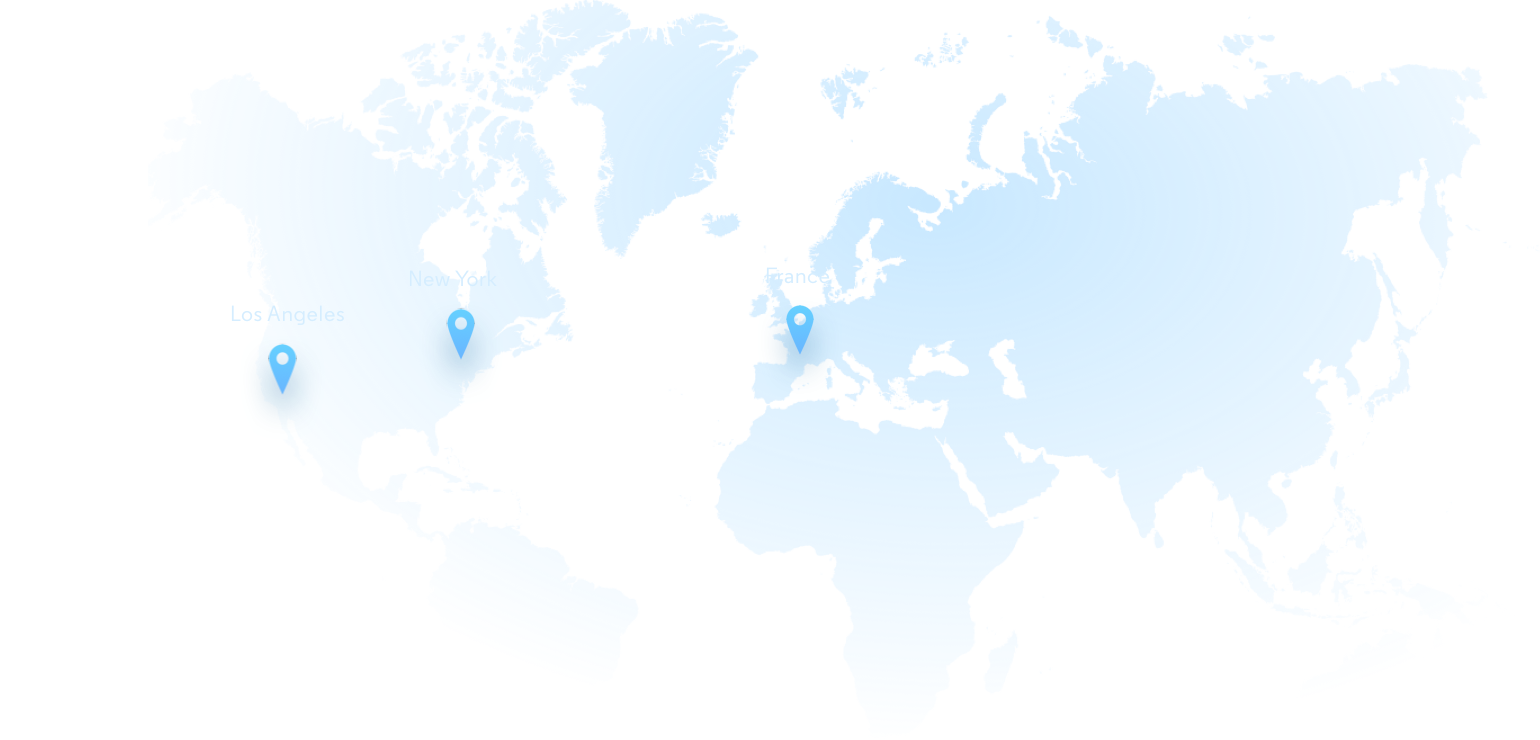
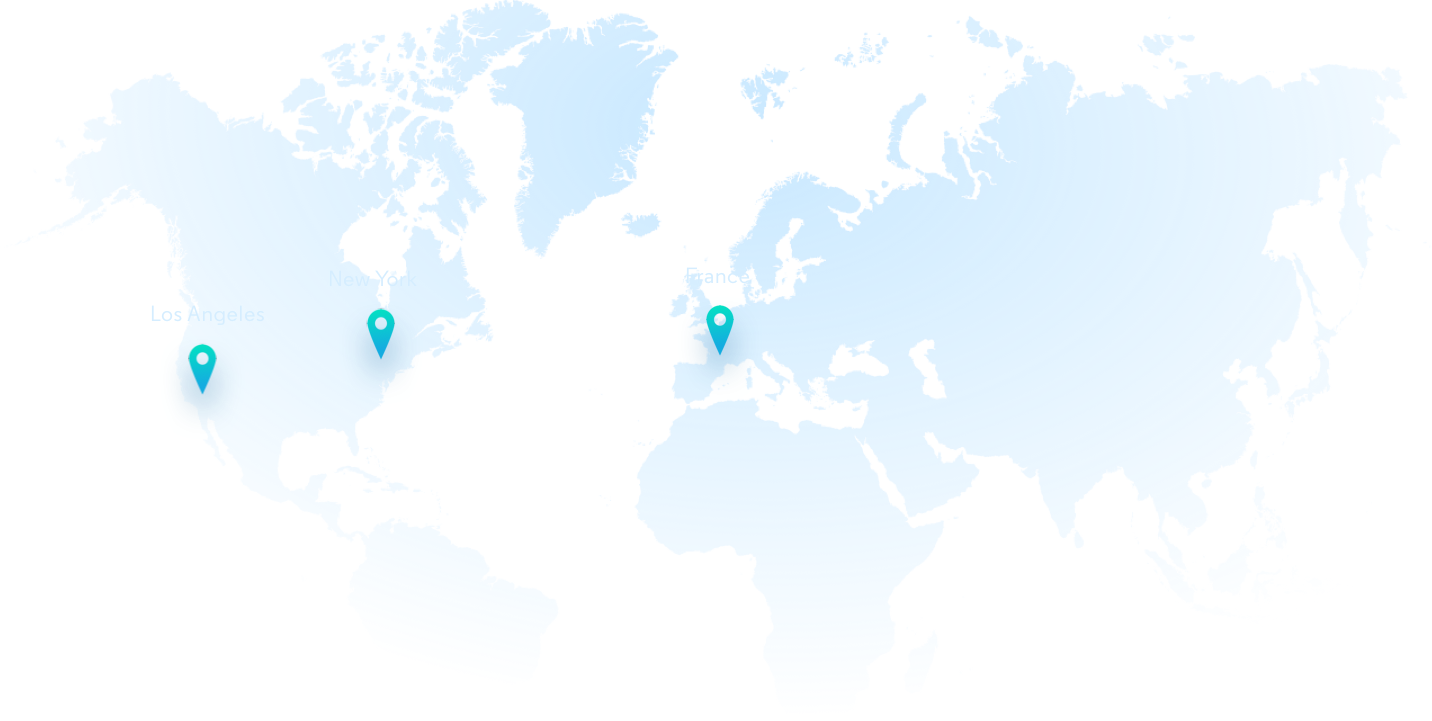
lots of desktop updates

diff --git a/app/assets/stylesheets/homepage/_team.scss b/app/assets/stylesheets/homepage/_team.scss
@@ -2,11 +2,9 @@
   padding: 65px 0;
   background-color: #0F3588;
   position: relative;
-
   @media(max-width: $iphone5) {
     padding-top: 30px;
   }
-
   @media(min-width: $medium) {
     /*background: image-url("team_bg_desktop.png");
     background-size: cover;*/
@@ -47,9 +45,12 @@
       padding-top: 150px;
       /* Path: */
       background: image-url("map_desktop.png");
-      background-size: 1540px;
+      background-size: 1300px;
       background-repeat: no-repeat;
       background-position: center 10px;
+    }
+    @media(min-width: $large) and (-webkit-min-device-pixel-ratio: 2) and (min-resolution: 192dpi) {
+      background-image: url("map_desktop@2x.png");
     }
   }
 
@@ -89,7 +90,6 @@
         font-size: 19px;
       }
     }
-
   }
 
   .employee-gap {
@@ -107,6 +107,29 @@
   }
 
   .employee-grid {
+    &.grid-1 {
+      margin-bottom: 60px;
+    }
+    &.grid-2 {
+      img {
+        -webkit-filter: grayscale(100%);
+        /* Safari 6.0 - 9.0 */
+        filter: grayscale(100%);
+      }
+    }
+
+    h2 {
+      &.col-12 {
+        justify-content: center;
+        margin-bottom: 40px;
+
+      }
+    }
+
+    .employee-item {
+      margin-bottom: 30px;
+    }
+
     .col-lg-4 {
       @media(min-width: $large) {
         margin-bottom: 15px;
@@ -124,23 +147,24 @@
         width: 149px;
       }
       @media(min-width: $large) {
-        width: 166px;
+        width: 188px;
       }
 
       img {
         width: 100%;
         border-radius: 100%;
+        // border: 1px solid #1a6afd;
       }
     }
 
     figcaption {
-      margin-top: 5px;
+      margin-top: 12px;
+      margin-bottom: 3px;
       font-size: 16px;
       font-family: var(--paragraph-font);
       font-weight: 600;
-      color: #ffffff;
+      color: #31bdfd;
       text-align: center;
-
       @media(min-width: $medium) {
         font-size: 18px;
       }
@@ -150,11 +174,11 @@
       font-family: var(--paragraph-font);
       font-weight: 500;
       font-size: 13px;
-      color: ffffff;
+      color: rgba(255, 255, 255, 0.76);
       text-align: center;
-
       @media(min-width: $medium) {
         font-size: 16px;
+        line-height: 1.2;
       }
     }
   }

diff --git a/app/assets/stylesheets/homepage/_roadmap.scss b/app/assets/stylesheets/homepage/_roadmap.scss
@@ -6,13 +6,12 @@ $timeline-size: 14px;
 section.roadmap {
   background-color: #1D4398;
   padding: 65px 0 0;
-
   @media(min-width: $medium) {
     background: none;
     padding: 70px 0;
   }
   @media(min-width: $large) {
-    padding: 120px 0 120px;
+    padding: 0 0 30px 0;
   }
 
   h2 {
@@ -182,9 +181,11 @@ section.roadmap {
       opacity: 1;
       transform: scale(.95);
       background-size: cover;
-      background-image: linear-gradient(-180deg, #2786CC 0%, #005FA5 87%);
+      border: 0;
+      box-shadow: 0 2px 4px 0 rgba(8,83,137,0.15);
       border-radius: 4px;
       min-height: 250px;
+    background-color: rgba(35, 123, 255, 0.23);
     }
 
     .slick-active {
@@ -197,14 +198,15 @@ section.roadmap {
 
     .slick-prev {
       left: calc(45% - 41px);
-      bottom: -21%;
+      bottom: -13%;
       top: auto;
       z-index: 100;
       width: 41px;
       height: 22px;
       background: image-url("roadmap_arrow_left.svg");
+      box-shadow: none;
       @media(min-width:$large) {
-        left: calc(50% - 41px);;
+        left: calc(50% - 41px);
       }
 
       &:before {
@@ -215,12 +217,13 @@ section.roadmap {
 
     .slick-next {
       right: calc(49% - 40px);
-      bottom: -21%;
+      bottom: -13%;
       top: auto;
       z-index: 100;
       width: 41px;
       height: 22px;
       background: image-url("roadmap_arrow_right.svg");
+      box-shadow: none;
       @media(min-width:$large) {
         left: calc(57% - 41px);
       }

diff --git a/app/assets/stylesheets/homepage/_brands.scss b/app/assets/stylesheets/homepage/_brands.scss
@@ -1,7 +1,6 @@
 .brands {
   padding: 65px 0;
   background-color: #0F3588;
-
   @media(min-width: $medium) {
     background: none;
   }
@@ -21,29 +20,28 @@
     display: flex;
     flex-wrap: wrap;
     justify-content: space-between;
-
     @media(min-width: $medium) {
       margin-top: 50px;
     }
 
-
-    img {
-      width: 80px;
-      margin: 10px 15px;
-      align-self: center;
-
-      @media(max-width: $iphone5) {
-        width: 70px;
-        margin: 10px 10px;
-      }
-
-      @media(min-width: $medium) {
-        width: 100px;
-      }
-
-      @media(min-width: $large) {
-        width: 110px;
-        margin: 10px 20px;
+    .img-wrapper {
+      display: flex;
+      flex-direction: row;
+      img {
+        width: 100%;
+        margin: 10px 15px;
+        align-self: center;
+        @media(max-width: $iphone5) {
+          width: 70px;
+          margin: 10px;
+        }
+        @media(min-width: $medium) {
+          width: 100px;
+        }
+        @media(min-width: $large) {
+          width: 110px;
+          margin: 10px 20px;
+        }
       }
     }
   }

diff --git a/app/assets/stylesheets/homepage/_marketplace.scss b/app/assets/stylesheets/homepage/_marketplace.scss
@@ -13,7 +13,7 @@ section.marketplace {
     }
   }
   @media(min-width: $large) {
-    padding: 120px 0 60px;
+    padding: 80px 0 60px;
 
     .marketplace-container {
       width: 55%;
@@ -76,10 +76,18 @@ section.marketplace {
     }
 
     @media(min-width: $large) {
-      left: 70px;
-      width: 40%;
-      margin-top: 150px;
+      left: -83px;
+      width: 53%;
+      margin-top: 90px;
       min-height: 800px;
+      max-width: 570px;
+    }
+    @media(min-width: $xlarge) {
+      left: 0px;
+      width: 53%;
+      margin-top: 120px;
+      min-height: 800px;
+      max-width: 570px;
     }
   }
 
@@ -93,7 +101,7 @@ section.marketplace {
 
     @media(min-width: $large) {
       width: 55%;
-      margin-top: 48px;
+      margin-top: 30px;
     }
   }
 

diff --git a/app/assets/stylesheets/homepage/_nexus.scss b/app/assets/stylesheets/homepage/_nexus.scss
@@ -16,9 +16,18 @@
   }
 
   @media(min-width: $large) {
-    background-size: 50%;
-    background-position-x: 50%;
     background-color: transparent;
+    background-image: url('nexus_map_desktop.png');
+    background-size: 85%;
+    background-repeat: no-repeat;
+    background-position: center;
+    min-height: 500px;
+  }
+  @media(min-width: $large) and (-webkit-min-device-pixel-ratio: 2) and (min-resolution: 192dpi) {
+    background-image: url('nexus_map_desktop@2x.png');
+  }
+  @media(min-width: $xlarge) {
+    background-size: 70%
   }
 
   h2 {

diff --git a/app/assets/stylesheets/application.scss b/app/assets/stylesheets/application.scss
@@ -22,7 +22,6 @@
 @import 'slick';
 @import 'slick-theme';
 @import '_responsivetabs';
-
 @media (min-width: 1200px) {
   .container {
     max-width: 1240px;
@@ -40,9 +39,7 @@ html {
     background-attachment: fixed;
     background-size: cover;
 
-    &:after {
-
-    }
+    &:after {}
   }
 }
 
@@ -55,6 +52,9 @@ html {
   background-repeat: repeat;
   background-size: 100%;
   opacity: 1;
+  @media(min-width: $medium) {
+    background-size: 50%;
+  }
 }
 
 section {

diff --git a/app/assets/stylesheets/homepage/_solution.scss b/app/assets/stylesheets/homepage/_solution.scss
@@ -24,6 +24,10 @@
   h2 {
     display: flex;
     align-items: center;
+
+    img {
+      height: 68px;
+    }
   }
 
   .title-icon {
@@ -59,7 +63,8 @@
     .solution-container {
       width: 40%;
       text-align: left;
-      margin-top: 50px;
+      margin-top: 0px;
+      max-width: 380px;
 
       h2 {
         justify-content: flex-start;

diff --git a/app/assets/stylesheets/homepage/_token.scss b/app/assets/stylesheets/homepage/_token.scss
@@ -138,7 +138,7 @@
         }
 
         @media(min-width: $large) {
-          margin-left: 13px;
+          margin-left: 8px;
         }
 
         h4 {
@@ -175,7 +175,7 @@
       img {
         height: 39px;
         @media(min-width: $large) {
-          height: 35px;
+          height:45px;
         }
       }
     }

diff --git a/app/assets/stylesheets/homepage/_protocols.scss b/app/assets/stylesheets/homepage/_protocols.scss
@@ -103,8 +103,8 @@ section.protocols {
         letter-spacing: 1.9px;
       }
       @media(min-width: $large) {
-        font-size: 23px;
-        margin-bottom: 27px;
+        font-size: 17px;
+        margin-bottom: 19px;
         line-height: 1.3;
         letter-spacing: 3.6px;
       }
